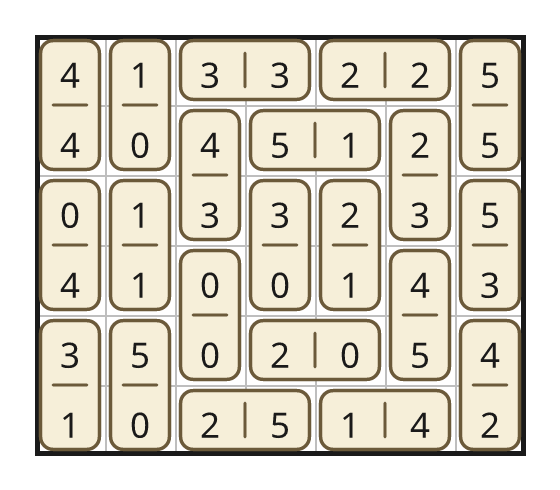
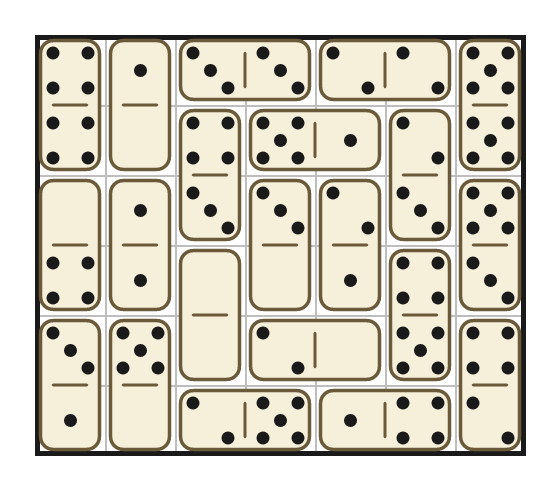
dominosa: regenerate the README pictures and say the numbers are pips
The gallery images are generated, so redraw the puzzle and its solution with
the new pip faces, and mention in the README that the numbers are pips.

diff --git a/RELEASE_NOTES.md b/RELEASE_NOTES.md
@@ -12,6 +12,7 @@
 * The puzzles in `examples/` are all rights reserved (`examples/LICENSE.md`): no copying without the author's written permission. The rest of the repo stays Apache 2.0. Every `--docx` booklet carries this notice in its footer.
 
 **Bug Fix(es)**
+* Dominosa boards show their numbers as **pips** instead of digits, so a cell reads like a domino half and the solved board reads as real stones: 0 is a blank half (the family rule now says so), 1 is one central dot, up to 6 as two columns of three. The pips are drawn above the solution's ivory dominoes and inside the picture's `pointer-events: none` layer, so the interactive board still takes clicks on a dot. README gallery pictures and their solutions are regenerated.
 * [#206 Murdoku: express "next to a marked square"](https://github.com/operdeck/human-reasoning-puzzles/issues/206): `next_to` / `not_next_to` now take a `Marks:` cell set as a target, written bare (`next_to P special`) or with the prefix counts already use (`next_to P mark:special`); before this only the bare name worked and `mark:special` was rejected as an unknown name. `on_mark` / `not_on_mark` and the role targets accept either spelling too. A mark counts across an area border, like a point object, because it belongs to its squares rather than to one area; standing on a marked square remains `on_mark`, not `next_to`, unless another cell of the same mark shares a side with it (then the clue reads "on or next to"). The independent brute force implements the same rule, and the Murdoku skill and format reference describe the target and its meaning.
 * [#183 Rectangles clue cells start filled in the web player](https://github.com/operdeck/human-reasoning-puzzles/issues/183): every numbered cell is exported as a fixed given in its own colour, so players begin with forced placements already filled and only need to solve the remaining cells.
 * [#184 Sandwich Sudoku rule wording](https://github.com/operdeck/human-reasoning-puzzles/issues/184): English and Dutch Sandwich clues now explain which line they apply to, sum the digits between 1 and the grid's top digit (excluding both endpoints and in either order), and define a zero clue as adjacency. Skyscraper Sudoku wording also explains visibility from the clue's side and gives a short example.

diff --git a/README.md b/README.md
@@ -105,7 +105,7 @@ The newest families come from Simon Tatham's puzzle collection and compile to th
 <tr>
 <td><strong><a href="examples/towers_2_5x5.txt">Towers</a></strong><br>Each height once per row and column; an edge clue counts the towers you can see.<br><img src="docs/images/towers_2_5x5-solution.png" width="150" alt="Solved Towers puzzle"></td>
 <td><strong><a href="examples/mosaic_2_5x5.txt">Mosaic</a></strong><br>Black or white, so every number counts the black cells around it.<br><img src="docs/images/mosaic_2_5x5-solution.png" width="150" alt="Solved Mosaic puzzle"></td>
-<td><strong><a href="examples/dominosa_2_6x7.txt">Dominosa</a></strong><br>Cover the grid with dominoes, each pair of numbers used once.<br><img src="docs/images/dominosa_2_6x7-solution.png" width="150" alt="Solved Dominosa puzzle"></td>
+<td><strong><a href="examples/dominosa_2_6x7.txt">Dominosa</a></strong><br>Cover the grid with dominoes, each pair of numbers used once; the numbers are pips, as on a stone.<br><img src="docs/images/dominosa_2_6x7-solution.png" width="150" alt="Solved Dominosa puzzle"></td>
 </tr>
 <tr>
 <td><strong><a href="examples/rectangles_3_9x9.txt">Rectangles</a></strong><br>Cut the grid into rectangles, each holding one number equal to its area.<br><img src="docs/images/rectangles_3_9x9-solution.png" width="150" alt="Solved Rectangles puzzle"></td>
